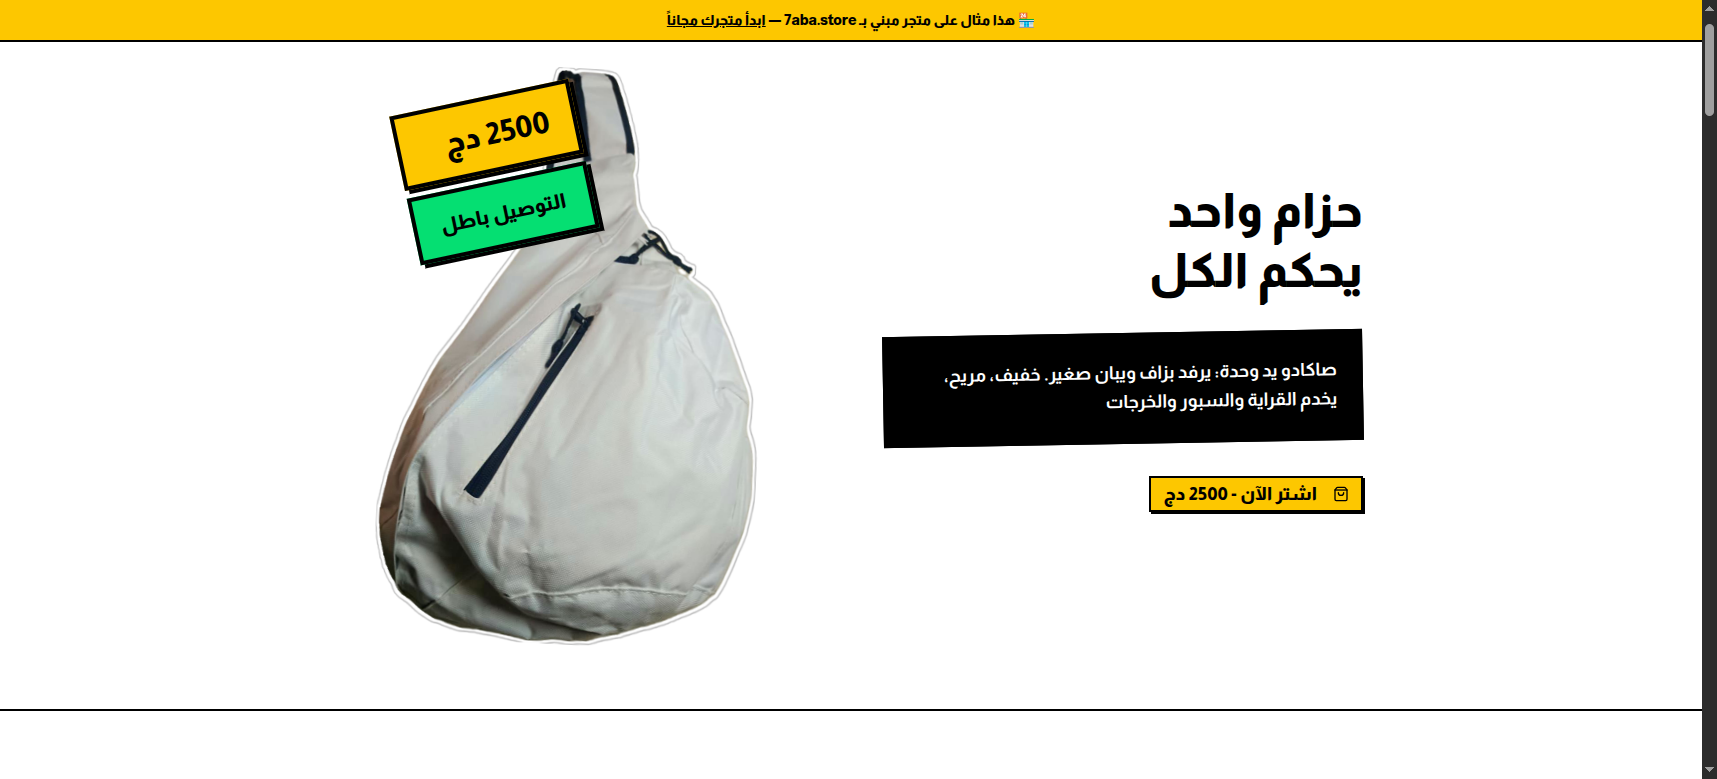
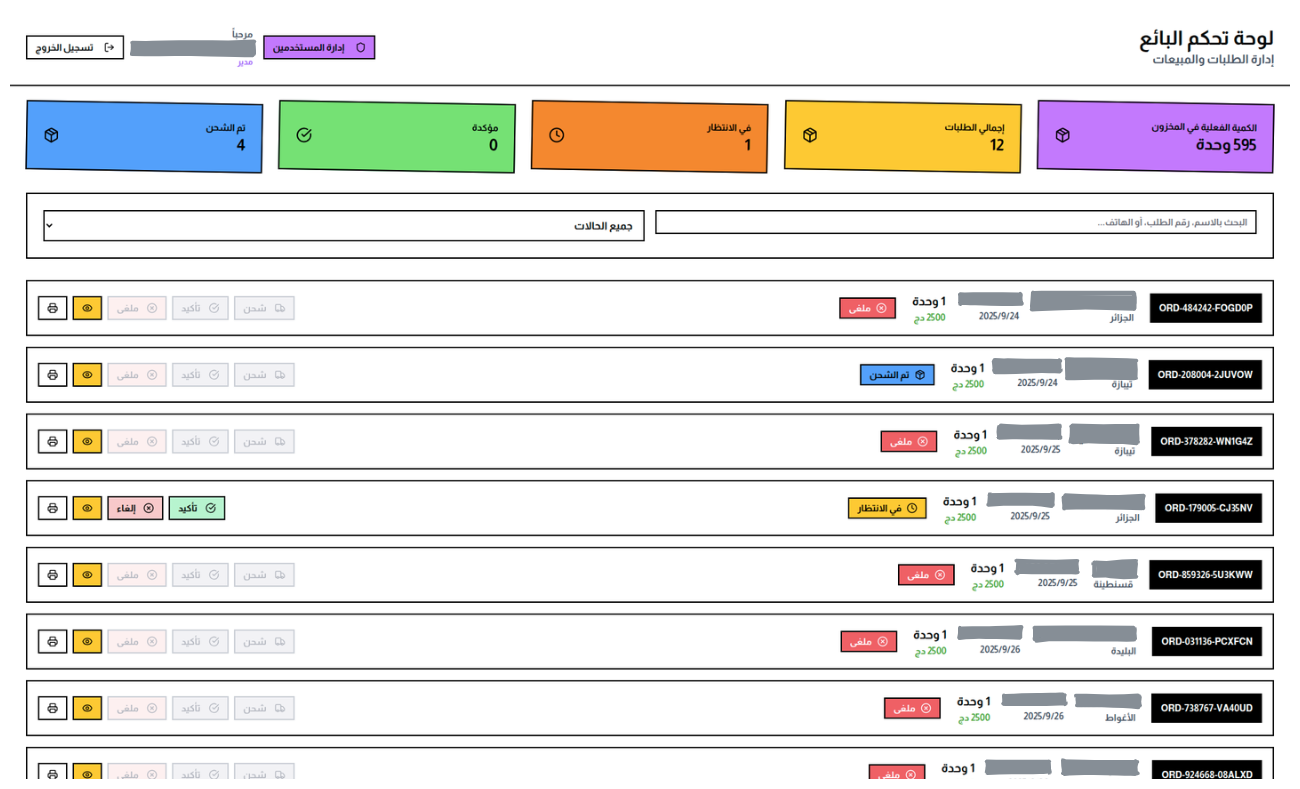
feat(landing): glyph lang switcher, scroll-reveal proof shots, restyled timer, pricing update, Meta Pixel
- Language switcher: single 文 glyph square button; menu on click.
- Nav buttons (create/login): smaller height, aligned with the glyph.
- Proof: distinct store + dashboard screenshots that auto-scroll their tall
  images as the section passes the viewport.
- First-batch countdown: borderless, oversized, centered, 'first-batch prices
  only' — landing + dashboard pricing.
- Pricing: deadline 15 Aug; after-labels now 'first 100 / 10 / 3 subscribers
  only — then normal price'. Remove the ta9in 'own the project' band.
- Meta Pixel 322683491235522: PageView + InitiateCheckout (buy click) + Purchase
  (verified success).

diff --git a/apps/platform/src/components/marketing/FirstBatchCountdown.tsx b/apps/platform/src/components/marketing/FirstBatchCountdown.tsx
@@ -5,9 +5,9 @@ import { cn } from '@/lib/utils'
 
 const T = {
   heading: {
-    ar: 'أسعار الدفعة الأولى تنتهي خلال',
-    fr: 'Les tarifs 1re vague se terminent dans',
-    en: 'First-batch pricing ends in',
+    ar: 'أسعار الدفعة الأولى فقط',
+    fr: 'Tarifs de la première vague uniquement',
+    en: 'First-batch prices only',
   },
   ended: {
     ar: 'انتهى عرض الدفعة الأولى — الأسعار ارتفعت',
@@ -53,14 +53,8 @@ export function FirstBatchCountdown({ variant = 'dark' }: { variant?: 'dark' | '
 
   if (time === null) {
     return (
-      <div
-        dir={dir}
-        className={cn(
-          'inline-flex items-center gap-2 px-4 py-2 border-2 font-black text-sm',
-          onDark ? 'border-yellow-400 text-yellow-400' : 'border-black text-black bg-yellow-400',
-        )}
-      >
-        ⏰ {t(T.ended)}
+      <div dir={dir} className={cn('text-center text-base font-black', onDark ? 'text-yellow-400' : 'text-black')}>
+        {t(T.ended)}
       </div>
     )
   }
@@ -71,25 +65,17 @@ export function FirstBatchCountdown({ variant = 'dark' }: { variant?: 'dark' | '
     [time.mins, T.mins],
     [time.secs, T.secs],
   ]
+  const accent = onDark ? 'text-yellow-400' : 'text-black'
 
+  // Borderless, centered, oversized text — no boxes.
   return (
-    <div dir={dir} className="inline-flex flex-col items-center gap-2">
-      <span className={cn('text-xs font-bold uppercase tracking-wide', onDark ? 'text-yellow-400' : 'text-black/60')}>
-        ⏰ {t(T.heading)}
-      </span>
-      <div className="flex items-center gap-2" dir="ltr">
+    <div dir={dir} className="flex flex-col items-center text-center gap-2 w-full">
+      <span className={cn('text-sm sm:text-base font-bold', accent)}>{t(T.heading)}</span>
+      <div className="flex items-end justify-center gap-3 sm:gap-5" dir="ltr">
         {cells.map(([value, label], i) => (
-          <div key={i} className="flex items-center gap-2">
-            <div
-              className={cn(
-                'flex flex-col items-center justify-center min-w-[3.25rem] px-2 py-1.5 border-2 font-black',
-                onDark ? 'border-yellow-400 bg-black text-yellow-400' : 'border-black bg-white text-black',
-              )}
-            >
-              <span className="text-2xl leading-none tabular-nums">{String(value).padStart(2, '0')}</span>
-              <span className="text-[10px] font-bold opacity-70">{t(label)}</span>
-            </div>
-            {i < cells.length - 1 && <span className={cn('font-black text-xl', onDark ? 'text-yellow-400' : 'text-black')}>:</span>}
+          <div key={i} className="flex flex-col items-center leading-none">
+            <span className={cn('text-4xl sm:text-6xl font-black tabular-nums', accent)}>{String(value).padStart(2, '0')}</span>
+            <span className={cn('text-[10px] sm:text-xs font-bold mt-1 opacity-70', accent)}>{t(label)}</span>
           </div>
         ))}
       </div>

diff --git a/apps/platform/src/components/marketing/landing/Proof.tsx b/apps/platform/src/components/marketing/landing/Proof.tsx
@@ -1,12 +1,47 @@
+import { useEffect, useRef } from 'react'
 import { useLang } from '@/hooks/useLang'
 import { Reveal, Kicker, SplitTitle } from '@/components/marketing/landing/primitives'
 import { landingProof } from '@/locales'
 
 export function Proof() {
   const { t } = useLang()
+  const sectionRef = useRef<HTMLElement>(null)
+  const storeImg = useRef<HTMLImageElement>(null)
+  const dashImg = useRef<HTMLImageElement>(null)
+
+  // As the section scrolls through the viewport, the two window screenshots
+  // auto-scroll their tall images (translateY) so the visitor sees the whole
+  // store + dashboard without a manual scrollbar — reveal-on-scroll.
+  useEffect(() => {
+    const el = sectionRef.current
+    if (!el) return
+    let raf = 0
+    const update = () => {
+      raf = 0
+      const rect = el.getBoundingClientRect()
+      const vh = window.innerHeight || 1
+      const p = Math.min(1, Math.max(0, (vh - rect.top) / (vh + rect.height)))
+      for (const ref of [storeImg, dashImg]) {
+        const im = ref.current
+        const frame = im?.parentElement
+        if (!im || !frame) continue
+        const scrollable = Math.max(0, im.scrollHeight - frame.clientHeight)
+        im.style.transform = `translateY(${-p * scrollable}px)`
+      }
+    }
+    const onScroll = () => { if (!raf) raf = requestAnimationFrame(update) }
+    update()
+    window.addEventListener('scroll', onScroll, { passive: true })
+    window.addEventListener('resize', onScroll)
+    return () => {
+      window.removeEventListener('scroll', onScroll)
+      window.removeEventListener('resize', onScroll)
+      if (raf) cancelAnimationFrame(raf)
+    }
+  }, [])
 
   return (
-    <section className="section" id="proof">
+    <section className="section" id="proof" ref={sectionRef}>
       <div className="wrap">
         <Reveal className="shead">
           <Kicker accent>{t(landingProof.kicker)}</Kicker>
@@ -17,7 +52,7 @@ export function Proof() {
           <div className="shot">
             <span className="tape">7aba</span>
             <div className="shot__frame">
-              <img src="/landing/store.png" alt={t(landingProof.cap1)} />
+              <img ref={storeImg} src="/landing/store.png" alt={t(landingProof.cap1)} />
             </div>
             <div className="shot__label">
               <b>{t(landingProof.cap1)}</b>
@@ -26,7 +61,7 @@ export function Proof() {
           </div>
           <div className="shot shot--b">
             <div className="shot__frame">
-              <img src="/landing/dashboard.png" alt={t(landingProof.cap2)} />
+              <img ref={dashImg} src="/landing/dashboard.png" alt={t(landingProof.cap2)} />
             </div>
             <div className="shot__label">
               <b>{t(landingProof.cap2)}</b>

diff --git a/apps/platform/src/config/pricing.ts b/apps/platform/src/config/pricing.ts
@@ -18,7 +18,7 @@ export type TierId = 'starter' | 'pro' | 'agency'
 export type CheckoutKind = 'chargily' | 'contact'
 
 /** First-batch offer deadline — Algiers time (UTC+1). After this, prices rise. */
-export const FIRST_BATCH_DEADLINE = new Date('2026-07-31T23:59:59+01:00')
+export const FIRST_BATCH_DEADLINE = new Date('2026-08-15T23:59:59+01:00')
 
 export function isFirstBatch(now: Date = new Date()): boolean {
   return now.getTime() < FIRST_BATCH_DEADLINE.getTime()
@@ -50,9 +50,9 @@ export const TIERS: Tier[] = [
     priceDzd: 10000,
     priceLabel: { ar: '10,000 دج', fr: '10 000 DZD', en: '10,000 DZD' },
     afterLabel: {
-      ar: 'بعد 31 جويلية: 10 متاجر فقط، ثم 3,000 دج لكل متجر إضافي',
-      fr: 'Après le 31 juillet : 10 boutiques, puis 3 000 DZD par boutique',
-      en: 'After Jul 31: 10 stores only, then 3,000 DZD per extra store',
+      ar: 'لأول 100 مشترك فقط بهذا السعر — بعدها السعر العادي',
+      fr: 'Pour les 100 premiers seulement — ensuite le prix normal',
+      en: 'First 100 subscribers only — then the normal price',
     },
     checkout: 'chargily',
     badge: null,
@@ -96,9 +96,9 @@ export const TIERS: Tier[] = [
     priceDzd: 70000,
     priceLabel: { ar: '70,000 دج', fr: '70 000 DZD', en: '70,000 DZD' },
     afterLabel: {
-      ar: 'بعد 31 جويلية: 100,000 دج',
-      fr: 'Après le 31 juillet : 100 000 DZD',
-      en: 'After Jul 31: 100,000 DZD',
+      ar: 'لأول 10 مشتركين فقط بهذا السعر — بعدها السعر العادي',
+      fr: 'Pour les 10 premiers seulement — ensuite le prix normal',
+      en: 'First 10 subscribers only — then the normal price',
     },
     checkout: 'chargily',
     badge: { ar: 'الأكثر اختياراً', fr: 'Le plus choisi', en: 'Most chosen' },
@@ -115,9 +115,9 @@ export const TIERS: Tier[] = [
     priceDzd: 1000000,
     priceLabel: { ar: '1,000,000 دج', fr: '1 000 000 DZD', en: '1,000,000 DZD' },
     afterLabel: {
-      ar: 'بعد 31 جويلية: 2,000,000 دج',
-      fr: 'Après le 31 juillet : 2 000 000 DZD',
-      en: 'After Jul 31: 2,000,000 DZD',
+      ar: 'لأول 3 مشتركين فقط بهذا السعر — بعدها السعر العادي',
+      fr: 'Pour les 3 premiers seulement — ensuite le prix normal',
+      en: 'First 3 subscribers only — then the normal price',
     },
     checkout: 'contact',
     badge: null,

diff --git a/apps/platform/src/styles/landing.css b/apps/platform/src/styles/landing.css
@@ -84,9 +84,9 @@
 
 /* buttons */
 .landing-root .btn{
-  display:inline-flex; align-items:center; gap:10px; cursor:pointer;
-  font-family:var(--font-display); font-weight:700; font-size:17px;
-  padding:15px 26px; border:var(--bw) solid var(--ink); border-radius:var(--radius);
+  display:inline-flex; align-items:center; gap:8px; cursor:pointer;
+  font-family:var(--font-display); font-weight:700; font-size:14px;
+  padding:8px 16px; border:var(--bw) solid var(--ink); border-radius:var(--radius);
   background:var(--card); color:var(--ink);
   box-shadow:var(--shadow-sm); transition:transform .08s ease, box-shadow .08s ease;
   white-space:nowrap;
@@ -199,8 +199,9 @@
 }
 .landing-root .shot__label b{ font-family:var(--font-display); font-size:20px; }
 .landing-root .shot__label span{ color:var(--ink-soft); font-size:15px; }
-.landing-root .shot__frame{ border:var(--bw) solid var(--ink); border-radius:6px; overflow:hidden; box-shadow:var(--shadow); background:var(--card); }
-.landing-root .shot__frame img{ width:100%; display:block; }
+.landing-root .shot__frame{ border:var(--bw) solid var(--ink); border-radius:6px; overflow:hidden; box-shadow:var(--shadow); background:var(--card); height:420px; }
+.landing-root .shot__frame img{ width:100%; display:block; will-change:transform; }
+@media (max-width:640px){ .landing-root .shot__frame{ height:300px; } }
 .landing-root .shot--b{ margin-top:38px; }
 .landing-root .tape{ position:absolute; top:-14px; inset-inline-start:24px; background:var(--accent); border:2px solid var(--ink); font-family:var(--font-display); font-weight:700; font-size:12px; padding:5px 12px; transform:rotate(-3deg); z-index:2; box-shadow:var(--shadow-sm); }
 

diff --git a/apps/platform/src/routes/dashboard/index.tsx b/apps/platform/src/routes/dashboard/index.tsx
@@ -22,6 +22,7 @@ import {
 } from '@/components/ui/dropdown-menu'
 import { createSubscriptionCheckout } from '@/server/createSubscriptionCheckout'
 import { verifySubscriptionPayment } from '@/server/verifySubscriptionPayment'
+import { trackPixel } from '@/lib/pixel'
 import { TIERS as PRICING_TIERS, ONCE_LABEL, contactWhatsappUrl } from '@/config/pricing'
 import { FirstBatchCountdown } from '@/components/marketing/FirstBatchCountdown'
 import { LanguageSelect } from '@/components/marketing/LanguageSelect'
@@ -138,7 +139,14 @@ function AuthenticatedDashboard({
           tier: paymentTier as 'starter' | 'pro' | 'agency',
           userEmail: email,
         },
-      }).catch(console.error)
+      })
+        .then((r) => {
+          if ((r as any)?.success) {
+            const price = PRICING_TIERS.find((x) => x.id === paymentTier)?.priceDzd
+            trackPixel('Purchase', { value: price, currency: 'DZD', content_name: paymentTier })
+          }
+        })
+        .catch(console.error)
     }
   }, [payment, paymentTier, checkoutIdParam, platformUser?.checkoutId, email])
 
@@ -177,6 +185,8 @@ function SubscriptionGate({ email, autoPlan }: { email: string; autoPlan?: strin
       const result = await createSubscriptionCheckout({
         data: { tier, userId: email, userEmail: email },
       })
+      const price = PRICING_TIERS.find((x) => x.id === tier)?.priceDzd
+      trackPixel('InitiateCheckout', { value: price, currency: 'DZD', content_name: tier })
       window.location.href = result.checkoutUrl
     } catch (e: any) {
       setError(e.message || 'حدث خطأ')

diff --git a/apps/platform/src/components/marketing/LanguageSelect.tsx b/apps/platform/src/components/marketing/LanguageSelect.tsx
@@ -1,4 +1,3 @@
-import { Globe, ChevronDown } from 'lucide-react'
 import { useLang } from '@/hooks/useLang'
 import type { Lang } from '@/hooks/useLang'
 import { cn } from '@/lib/utils'
@@ -33,20 +32,20 @@ export function LanguageSelect({
 
   const trigger =
     variant === 'marketing'
-      ? 'text-xs font-bold px-2.5 py-1.5 border-2 border-black bg-white text-black hover:bg-yellow-400'
-      : 'text-xs font-semibold px-2 py-1.5 rounded-lg text-muted-foreground hover:text-foreground hover:bg-muted'
+      ? 'w-9 h-9 border-2 border-black bg-white text-black hover:bg-yellow-400'
+      : 'w-9 h-9 rounded-lg text-muted-foreground hover:text-foreground hover:bg-muted'
 
   return (
     <DropdownMenu>
       <DropdownMenuTrigger asChild>
         <button
           aria-label="Language"
-          className={cn('flex items-center gap-1.5 cursor-pointer transition-colors focus:outline-none', trigger, className)}
+          title="Language / اللغة"
+          className={cn('cursor-pointer transition-colors focus:outline-none leading-none flex items-center justify-center', trigger, className)}
           dir="ltr"
         >
-          <Globe className="h-3.5 w-3.5" />
-          {lang.toUpperCase()}
-          <ChevronDown className="h-3 w-3 opacity-70" />
+          {/* CJK glyph = universal "language" affordance; click opens the menu. */}
+          <span className="text-lg font-bold" style={{ fontFamily: '"Noto Sans SC", "Noto Sans JP", sans-serif' }}>文</span>
         </button>
       </DropdownMenuTrigger>
       <DropdownMenuContent align="end">

diff --git a/apps/platform/src/routes/__root.tsx b/apps/platform/src/routes/__root.tsx
@@ -41,7 +41,13 @@ export const Route = createRootRoute({
       { rel: 'icon', type: 'image/png', sizes: '96x96', href: '/favicon-96x96.png' },
       { rel: 'manifest', href: '/site.webmanifest' },
     ],
-    scripts: import.meta.env.SSR ? [...analytics()] : [],
+    scripts: [
+      {
+        children:
+          "!function(f,b,e,v,n,t,s){if(f.fbq)return;n=f.fbq=function(){n.callMethod?n.callMethod.apply(n,arguments):n.queue.push(arguments)};if(!f._fbq)f._fbq=n;n.push=n;n.loaded=!0;n.version='2.0';n.queue=[];t=b.createElement(e);t.async=!0;t.src=v;s=b.getElementsByTagName(e)[0];s.parentNode.insertBefore(t,s)}(window,document,'script','https://connect.facebook.net/en_US/fbevents.js');fbq('init','322683491235522');fbq('track','PageView');",
+      },
+      ...(import.meta.env.SSR ? analytics() : []),
+    ],
   }),
   component: RootComponent,
 })

diff --git a/apps/platform/src/components/marketing/landing/Pricing.tsx b/apps/platform/src/components/marketing/landing/Pricing.tsx
@@ -98,18 +98,6 @@ export function Pricing() {
           </div>
         </Reveal>
 
-        <Reveal delay={80}>
-          <div className="ownband">
-            <div className="ownband__txt">
-              <h3>{t(landingPricing.ownTitle)}</h3>
-              <p>{t(landingPricing.ownBody)}</p>
-            </div>
-            <Link to="/dashboard" search={{}} className="btn btn--ink">
-              {t(landingPricing.ownCta)}<span className="btn__arrow">→</span>
-            </Link>
-          </div>
-        </Reveal>
-
         <p className="pnote">{t(landingPricing.note)}</p>
       </div>
     </section>

diff --git a/apps/platform/src/lib/pixel.ts b/apps/platform/src/lib/pixel.ts
@@ -1,0 +1,6 @@
+/** Meta (Facebook) Pixel — fire standard events from the purchase flow. */
+export function trackPixel(event: string, data?: Record<string, unknown>) {
+  if (typeof window === 'undefined') return
+  const fbq = (window as unknown as { fbq?: (...a: unknown[]) => void }).fbq
+  if (typeof fbq === 'function') fbq('track', event, data)
+}
